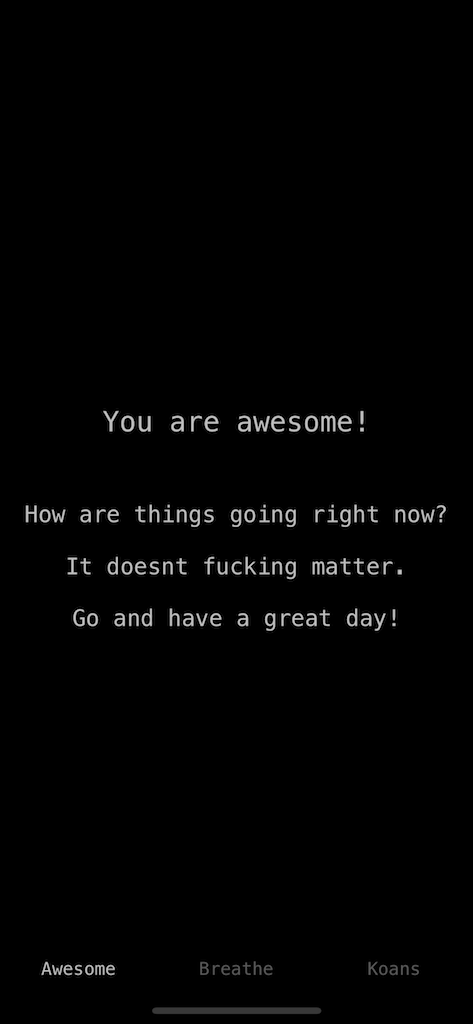
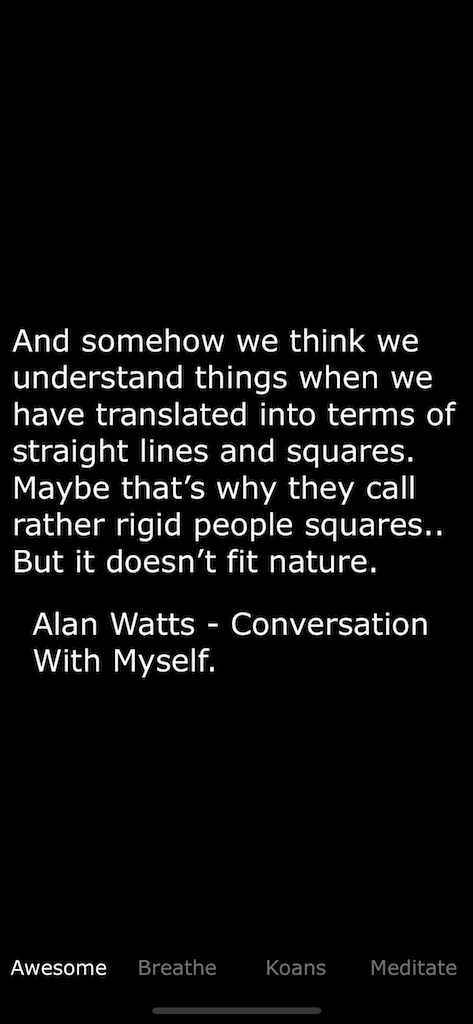
update-readme

diff --git a/README.md b/README.md
@@ -17,6 +17,8 @@ wait 4 seconds
 
 ![koans](./readme/koans.png)
 
+![meditate](./readme/meditate.png)
+
 you can get it from the app store at [https://itunes.apple.com/us/app/be-awesome/id1387288406](https://itunes.apple.com/us/app/be-awesome/id1387288406) when it is approved
 
 
@@ -25,5 +27,6 @@ you can get it from the app store at [https://itunes.apple.com/us/app/be-awesome
 
 * logo <div>Icons made by <a href="https://www.flaticon.com/authors/skyclick" title="Skyclick">Skyclick</a> from <a href="https://www.flaticon.com/" title="Flaticon">www.flaticon.com</a> is licensed by <a href="http://creativecommons.org/licenses/by/3.0/" title="Creative Commons BY 3.0" target="_blank">CC 3.0 BY</a></div>
 
-* music from https://freemusicarchive.org/genre/Ambient/?sort=track_interest http://freemusicarchive.org/music/Kai_Engel/ and http://freemusicarchive.org/music/Chris_Zabriskie/
-
+* music from: https://freemusicarchive.org/genre/Ambient/?sort=track_interest http://freemusicarchive.org/music/Kai_Engel/ and http://freemusicarchive.org/music/Chris_Zabriskie/
+* meditation files from: https://www.uclahealth.org/marc/mindful-meditations
+* Alan Watts - Conversation With Myself: https://archive.org/details/AlanWattsSpeeches
